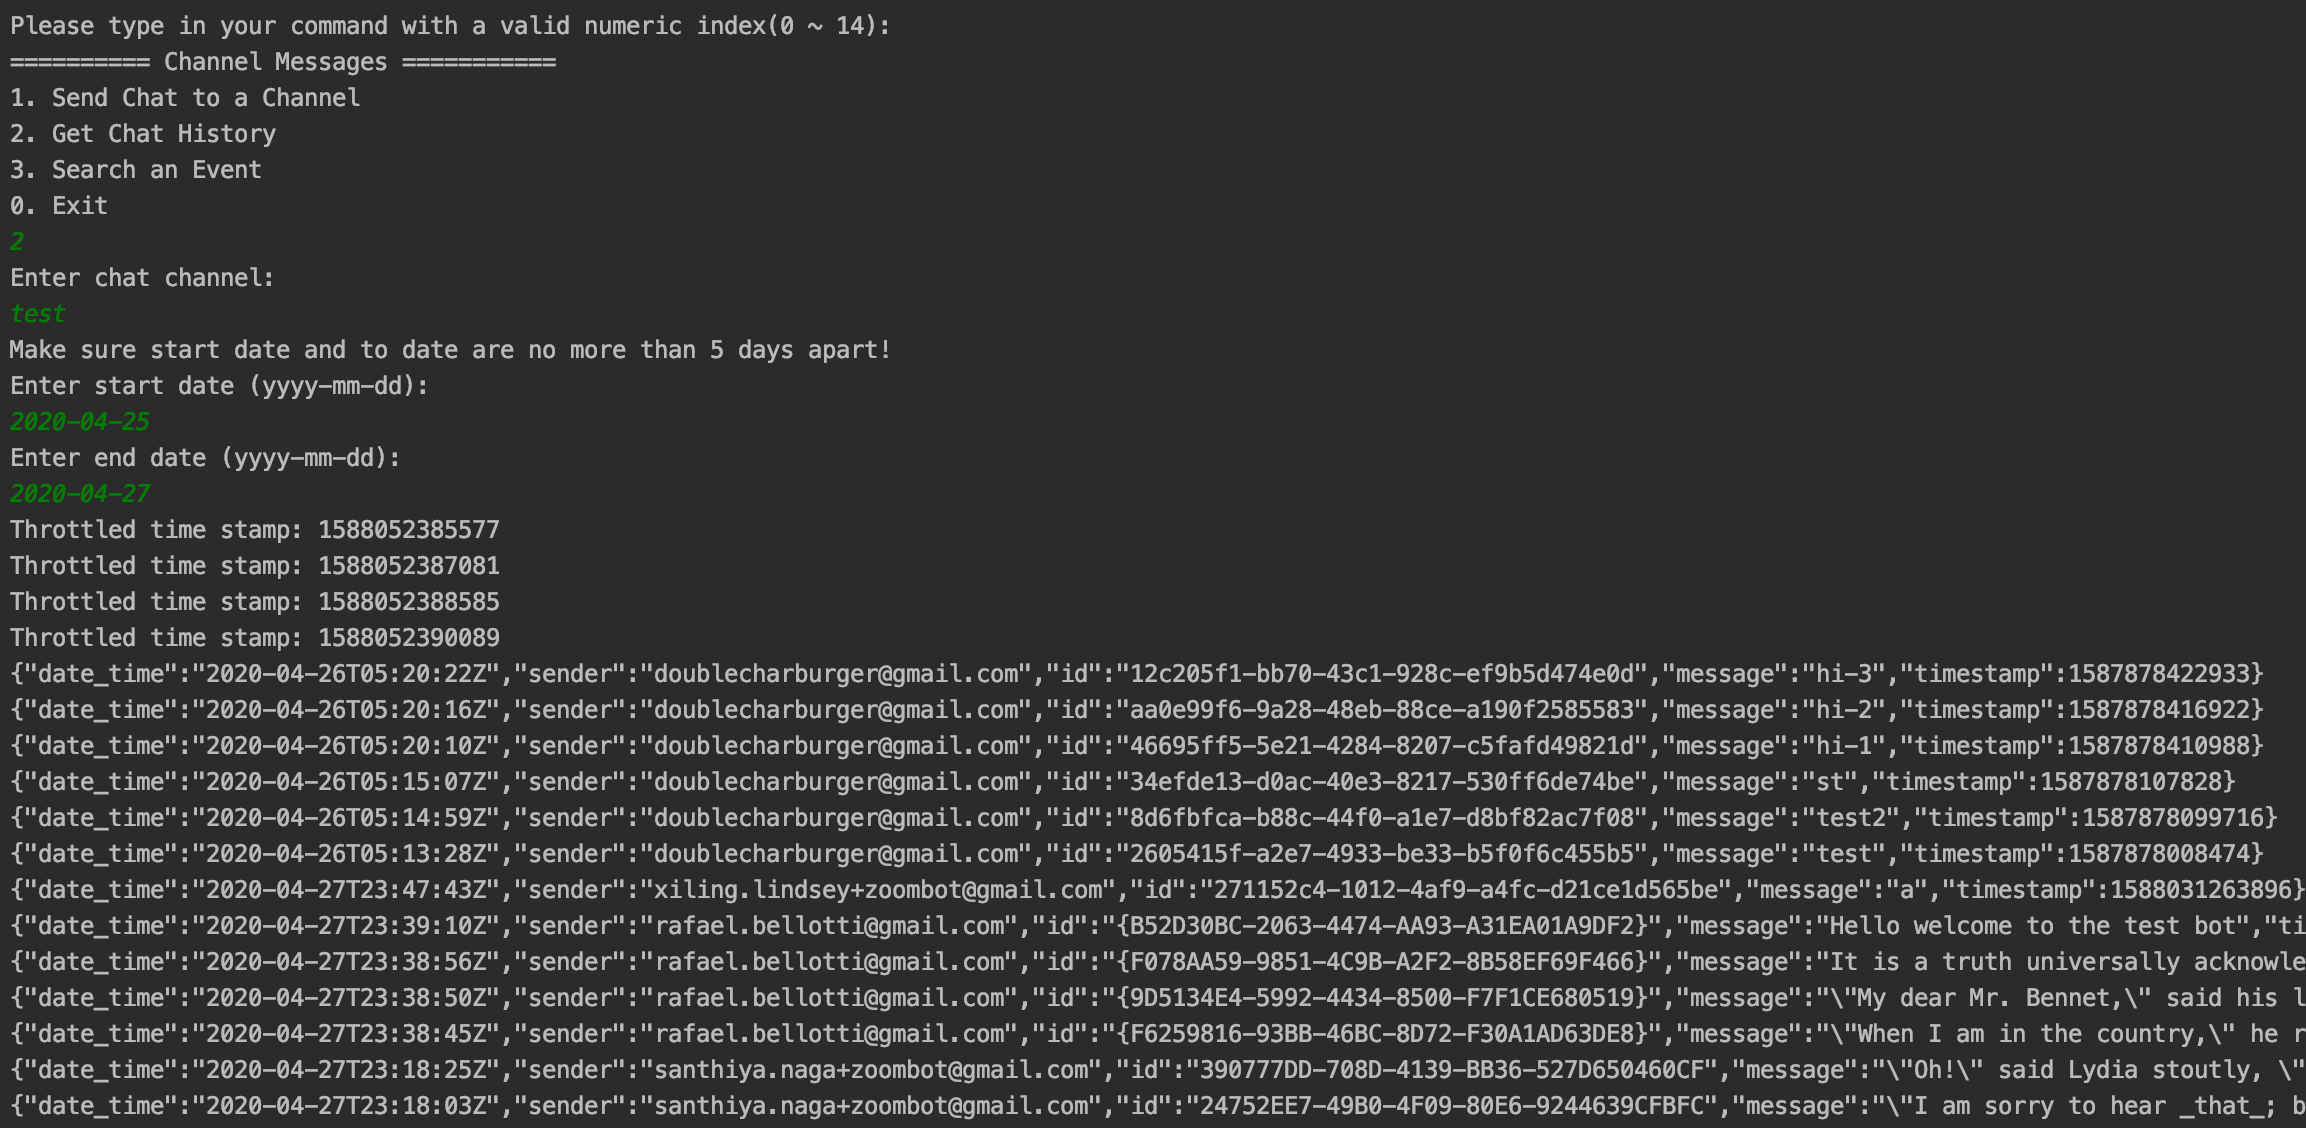
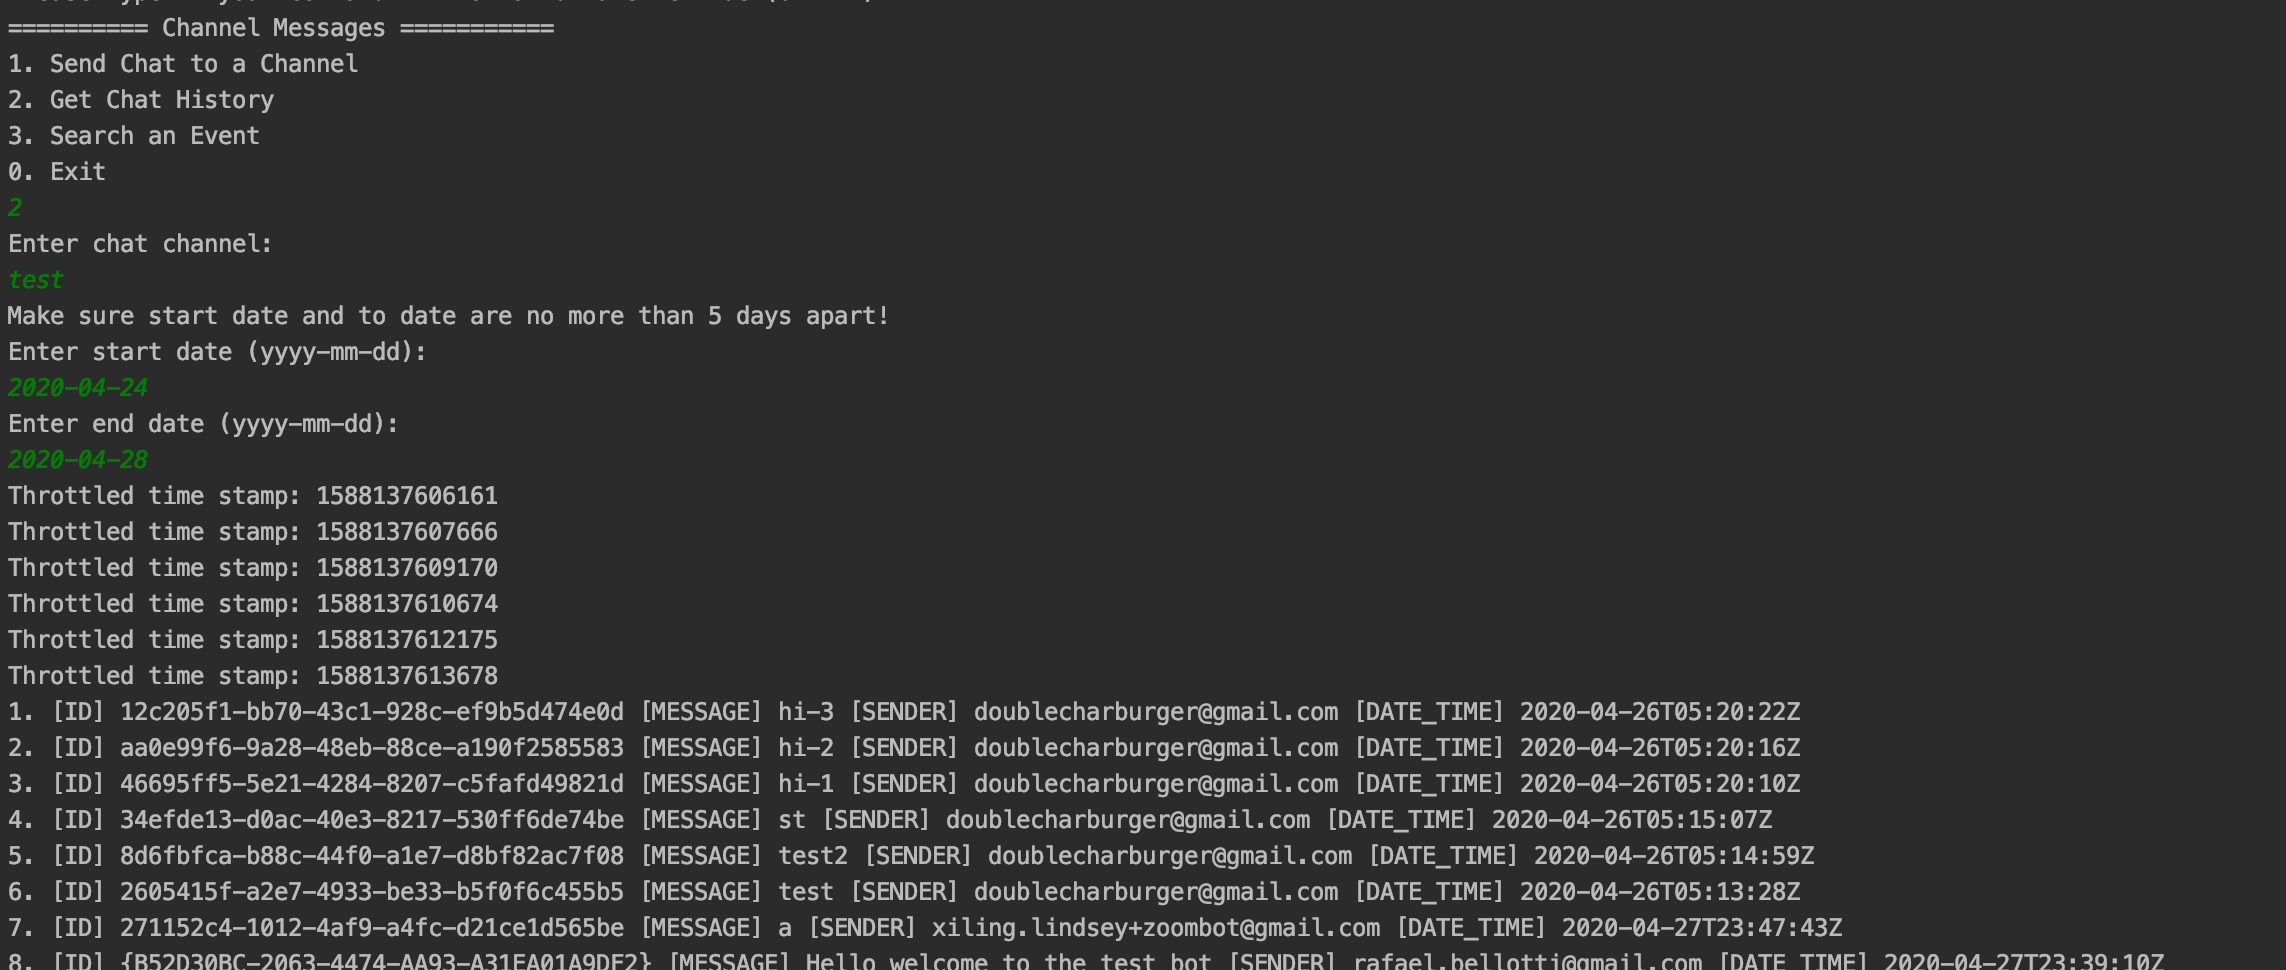
change methods with new Message model class (#56)
* change methods with new Message model class

Changed region(s): [[0.0, 0.2165, 1.0, 1.0], [0.0, 0.0, 0.3727, 0.1856]]

diff --git a/src/main/java/zoomapi/botAPIs/OauthMessage.java b/src/main/java/zoomapi/botAPIs/OauthMessage.java
@@ -1,11 +1,12 @@
 package zoomapi.botAPIs;
 
-import org.apache.http.client.utils.DateUtils;
 import org.json.JSONArray;
+import org.json.JSONException;
 import org.json.JSONObject;
 import zoomapi.OauthZoomClient;
 import zoomapi.components.ChatChannelsComponent;
 import zoomapi.components.ChatMessagesComponent;
+import zoomapi.utils.Message;
 import zoomapi.utils.OauthCondition;
 
 import java.text.DateFormat;
@@ -43,14 +44,14 @@ public class OauthMessage{
         return (int) chat_messages.sendMessage(data).get("status_code") == 201;
     }
 
-    public List<String> getChatHistory(String to_channel, String from_date, String to_date) {
+    public List<Message> getChatHistory(String to_channel, String from_date, String to_date) {
         if (chat_messages == null) throw new IllegalStateException("Uninitialized OauthClient");
         String cid = getCid(to_channel);
         Map<String, String> params = new HashMap<>();
         params.put("userId", this.userId);
         params.put("to_channel", cid);
         params.put("page_size", "50");
-        List<String> history_list = new ArrayList<>();
+        List<Message> history_list = new ArrayList<>();
         Calendar cal = Calendar.getInstance();
         try {
             Date from_date_format = new SimpleDateFormat("yyyy-mm-dd").parse(from_date);
@@ -59,14 +60,20 @@ public class OauthMessage{
             cal.setTime(from_date_format);
             while (from_date_format.compareTo(to_date_format) <= 0) {
                 params.put("date", from_date);
-                JSONObject response = chat_messages.listMessages(params);
-                JSONArray messages = (JSONArray) response.get("messages");
-                for (int i = 0; i<messages.length(); i++) {
-                    JSONObject history = messages.getJSONObject(i);
-                    history_list.add(history.toString());
+                JSONObject res = chat_messages.listMessages(params);
+                List<JSONObject> listObjs = parseJsonData(res, "messages");
+                Message m;
+                for (int i = 0; i<listObjs.size(); i++) {
+                    String id = listObjs.get(i).getString("id");
+                    String message = listObjs.get(i).getString("message");
+                    String sender = listObjs.get(i).getString("sender");
+                    String date_time = listObjs.get(i).getString("date_time");
+                    int timestamp = listObjs.get(i).getInt("timestamp");
+                    m = new Message(id, message, sender, date_time, timestamp);
+                    history_list.add(m);
                 }
-                if(response.getString("next_page_token").length()>1){
-                    params.put("next_page_token", response.getString("next_page_token"));
+                if(res.getString("next_page_token").length()>1){
+                    params.put("next_page_token", res.getString("next_page_token"));
                 }
                 //increment from start_date -> to_date until while loop ends
                 else{
@@ -75,7 +82,6 @@ public class OauthMessage{
                     from_date_format = cal.getTime();
                     from_date = dateFormat.format(from_date_format);
                 }
-//                System.out.println(history_list.size());
             }
         } catch (ParseException e) {
             e.printStackTrace();
@@ -83,10 +89,10 @@ public class OauthMessage{
         return history_list;
     }
 
-    public List<String> searchEvent(String to_channel, String from_date, String to_date, OauthCondition condition){
-        List<String> history_list = getChatHistory(to_channel, from_date, to_date);
-        List<String> true_list = new ArrayList<>();
-        for(String history:history_list){
+    public List<Message> searchEvent(String to_channel, String from_date, String to_date, OauthCondition condition){
+        List<Message> history_list = getChatHistory(to_channel, from_date, to_date);
+        List<Message> true_list = new ArrayList<>();
+        for(Message history:history_list){
             JSONObject item = new JSONObject(history);
             Map<String, String> message = new HashMap();
             message.put("id", item.getString("id"));
@@ -109,5 +115,16 @@ public class OauthMessage{
             throw new IllegalArgumentException("Invalid Channel Name");
         }
         return cid;
+    }
+
+    public static List<JSONObject> parseJsonData(JSONObject obj, String pattern)throws JSONException {
+
+        List<JSONObject> listObjs = new ArrayList<>();
+        JSONArray all_messages = obj.getJSONArray (pattern);
+        for (int i = 0; i < all_messages.length(); ++i) {
+            final JSONObject site = all_messages.getJSONObject(i);
+            listObjs.add(site);
+        }
+        return listObjs;
     }
 }

diff --git a/src/main/java/bots/botm3.java b/src/main/java/bots/botm3.java
@@ -6,6 +6,7 @@ import zoomapi.OauthZoomClient;
 import zoomapi.botAPIs.OauthMessage;
 import zoomapi.components.ChatChannelsComponent;
 import zoomapi.components.ChatMessagesComponent;
+import zoomapi.utils.Message;
 import zoomapi.utils.Util;
 
 import java.awt.*;
@@ -87,9 +88,11 @@ public class botm3 {
         System.out.println("Enter end date (yyyy-mm-dd): ");
         Scanner sc2 = new Scanner(System.in);
         String to_date = sc2.nextLine();
-        List<String> history_list = oauth_message.getChatHistory(to_channel, from_date, to_date);
-        for(String history:history_list){
-            System.out.println(history);
+        List<Message> history_list = oauth_message.getChatHistory(to_channel, from_date, to_date);
+        int number = 0;
+        for(Message m:history_list){
+            number++;
+            System.out.println(number + ". [ID] " + m.getId() + " [MESSAGE] " + m.getMessage() + " [SENDER] " + m.getSender() + " [DATE_TIME] " + m.getDate_time());
         }
     }
 
@@ -106,24 +109,28 @@ public class botm3 {
         Scanner sc3 = new Scanner(System.in);
         String to_date = sc3.nextLine();
 
-        List<String> ans1 = oauth_message.searchEvent(to_channel, from_date, to_date, (message)->{
+        List<Message> ans1 = oauth_message.searchEvent(to_channel, from_date, to_date, (message)->{
             if(message.get("sender").contains("soobinchoi54+zoombot@gmail.com")) return true;
             else return false;
         });
 
         System.out.println("========== Search by Sender ===========");
-        for(String event1:ans1){
-            System.out.println(event1);
+        int number1 = 0;
+        for(Message event1:ans1){
+            number1++;
+            System.out.println(number1 + ". [ID] " + event1.getId() + " [MESSAGE] " + event1.getMessage() + " [SENDER] " + event1.getSender() + " [DATE_TIME] " + event1.getDate_time());
         }
 
-        List<String> ans2 = oauth_message.searchEvent(to_channel, from_date, to_date, (message)->{
+        List<Message> ans2 = oauth_message.searchEvent(to_channel, from_date, to_date, (message)->{
             if(message.get("message").contains("hello")) return true;
             else return false;
         });
 
         System.out.println("========== Search by Message String ===========");
-        for(String event2:ans2){
-            System.out.println(event2);
+        int number2 = 0;
+        for(Message event2:ans2){
+            number2++;
+            System.out.println(number2 + ". [ID] " + event2.getId() + " [MESSAGE] " + event2.getMessage() + " [SENDER] " + event2.getSender() + " [DATE_TIME] " + event2.getDate_time());
         }
     }
 

diff --git a/src/main/java/zoomapi/utils/Message.java b/src/main/java/zoomapi/utils/Message.java
@@ -1,0 +1,57 @@
+package zoomapi.utils;
+
+public class Message {
+    private String id;
+    private String message;
+    private String sender;
+    private String date_time;
+    private int timestamp;
+
+    public Message(String id, String message, String sender, String date_time, int timestamp) {
+        this.id = id;
+        this.message = message;
+        this.sender = sender;
+        this.date_time = date_time;
+        this.timestamp = timestamp;
+    }
+
+    public void setId(String id) {
+        this.id = id;
+    }
+
+    public String getId() {
+        return id;
+    }
+
+    public void setMessage(String message) {
+        this.message = message;
+    }
+
+    public String getMessage() {
+        return message;
+    }
+
+    public void setSender(String sender) {
+        this.sender = sender;
+    }
+
+    public String getSender() {
+        return sender;
+    }
+
+    public void setDate_time(String date_time) {
+        this.date_time = date_time;
+    }
+
+    public String getDate_time() {
+        return date_time;
+    }
+
+    public void setTimestamp(int timestamp) {
+        this.timestamp = timestamp;
+    }
+
+    public int getTimestamp() {
+        return timestamp;
+    }
+}

diff --git a/README.md b/README.md
@@ -81,8 +81,8 @@ The expected output in the terminal for a successful run on botm3.java looks lik
 <br> 3. Search an Event
 <br> The expected output for option 1 looks like this:
 <br> ![Success](/pics/m3/botm3-option1.png) 
-<br> The expected output for option 2 looks like this, with a list of messages from start to end date:
+<br> The expected output for option 2 looks like this, with a list of formatted messages from start to end date:
 <br> ![Success](/pics/m3/botm3-option2.png) 
-<br> The expected output for option 3 looks like this, with a list of messages with the specified sender, and another list of messages with the specified messages string:
+<br> The expected output for option 3 looks like this, with a list of formatted messages with the specified sender, and another list of messages with the specified messages string:
 <br> ![Success](/pics/m3/botm3-option3.png) 
 
